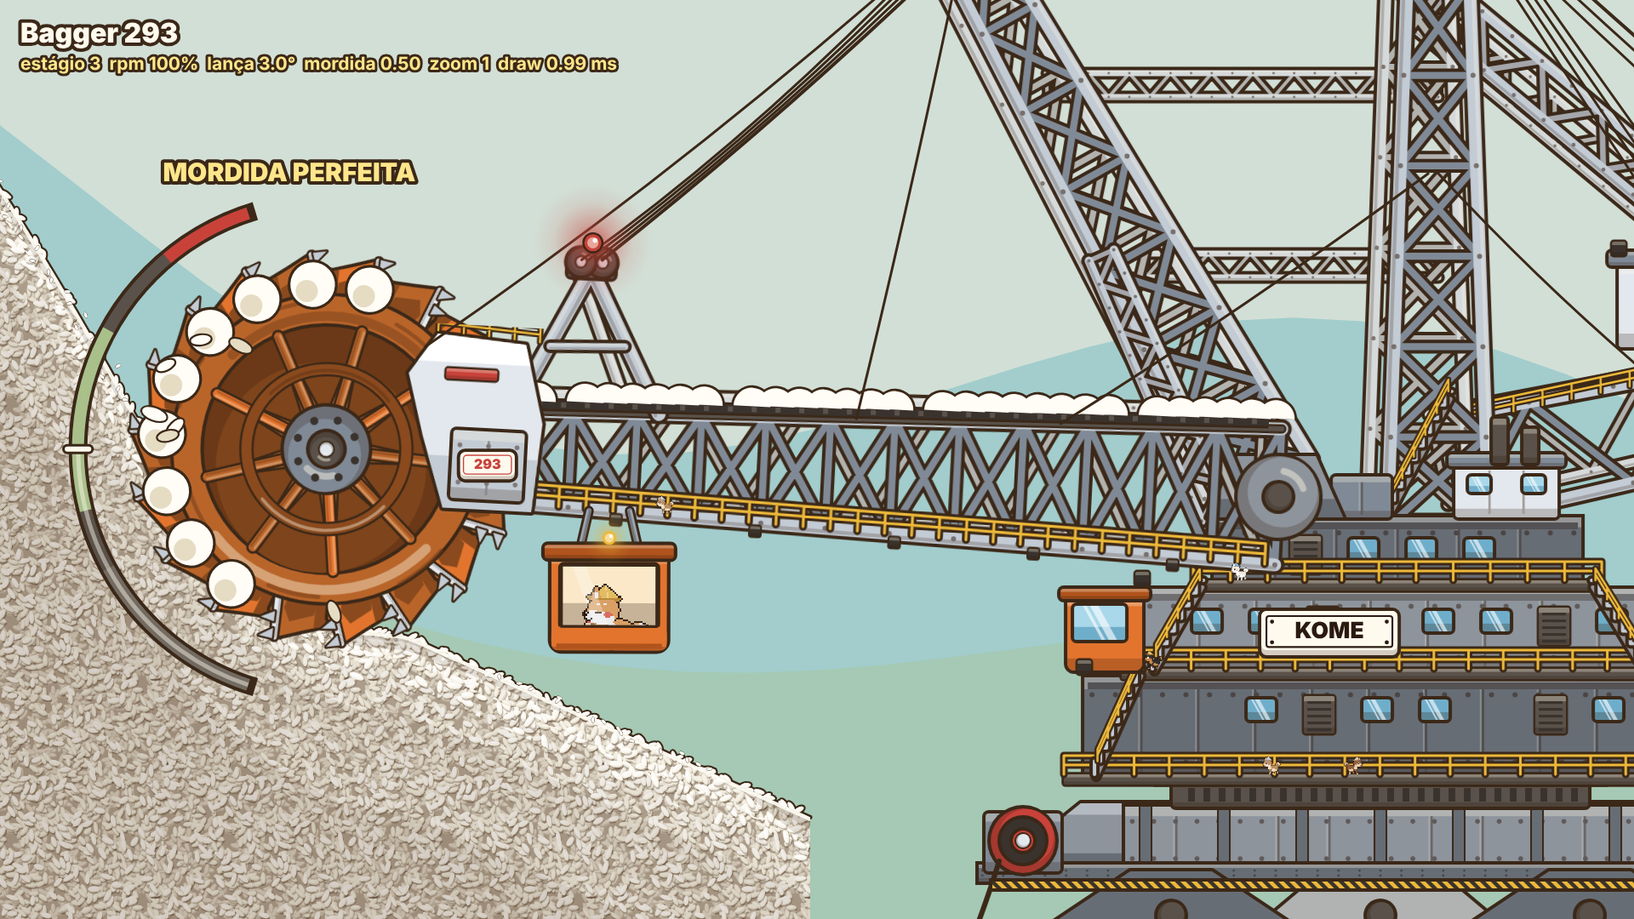
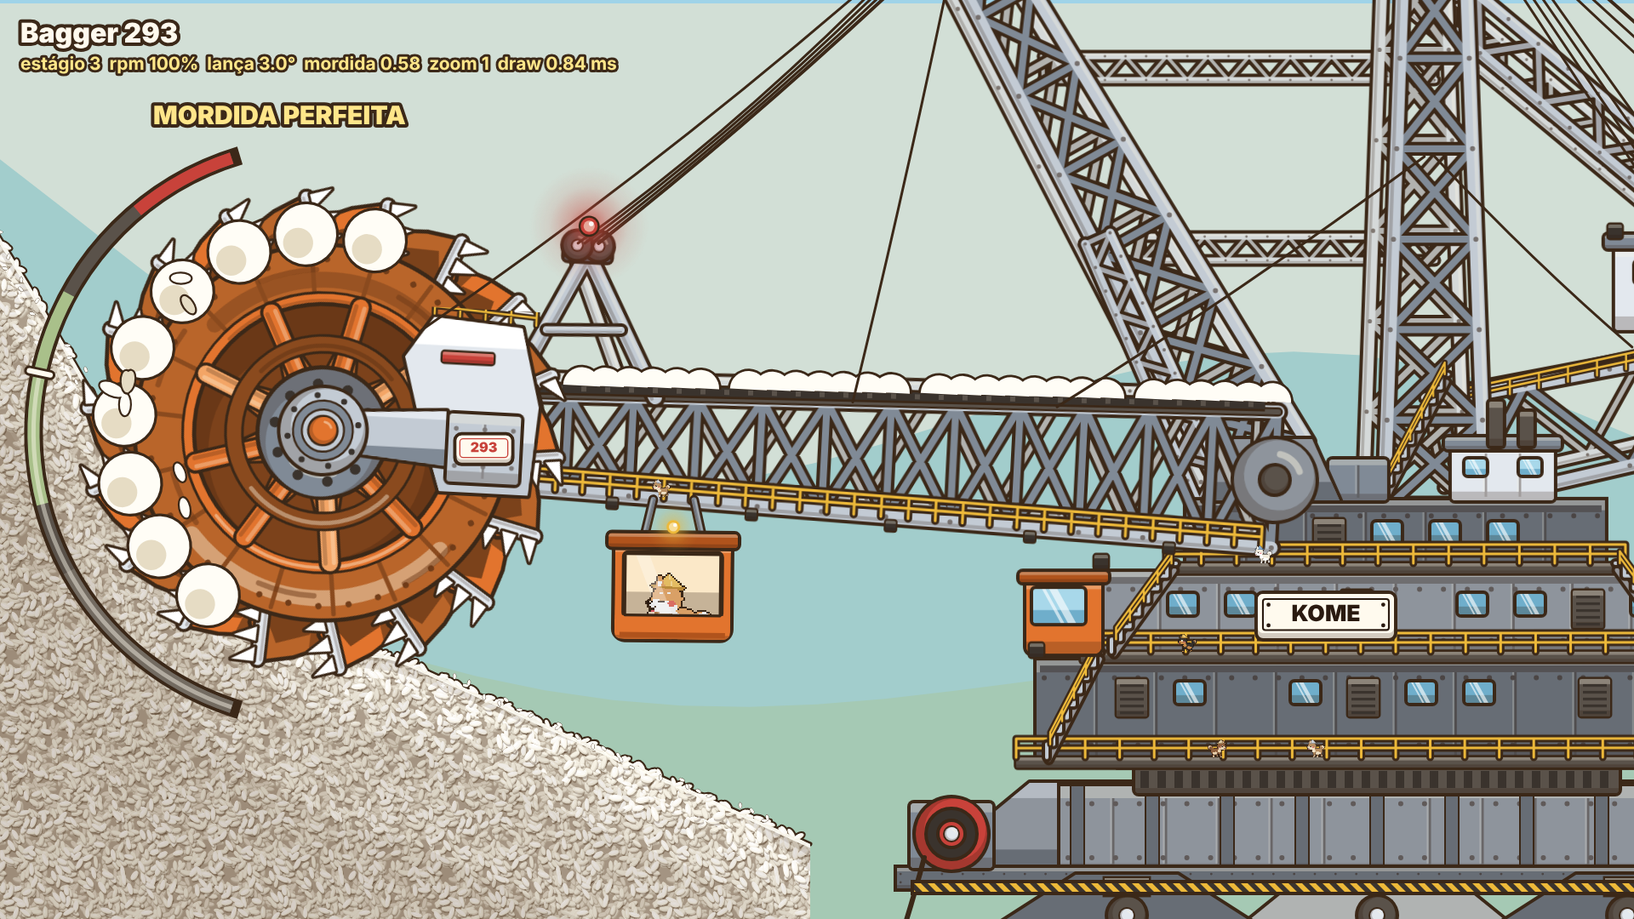
kome: Bagger 293 (primeira versão)
Claude-Session: https://claude.ai/code/session_01QMuA8b6SJ9Cv2sd7LT1RZF

diff --git a/kome/game/bagger.js b/kome/game/bagger.js
@@ -30,20 +30,20 @@
   function sh(c, k) { const key = c + '|' + k; let v = shc.get(key); if (v === undefined) { v = U.shade(c, k); shc.set(key, v); } return v; }
 
   /* ---------------- geometria (modelo: x pra frente, y negativo = pra cima) ---------------- */
-  const TH = 52, TW = 88;                         // esteira principal
-  const RING = -142;                              // topo do anel de giro (tudo acima balança junto)
+  const TH = 66, TW = 108;                         // esteira principal
+  const RING = -142, LIFT = 30;                             // topo do anel de giro (tudo acima balança junto)
   const PX = 60, PY = -310;                       // pino da lança da roda
-  const BL = 560, WR = 110, NB = 18, STEP = TAU / NB;
+  const BL = 560, WR = 134, WS = 1.2, NB = 18, STEP = TAU / NB;
   const LMIN = -18 * DEG, LMAX = 32 * DEG;
   const M1B = [66, -318], M1T = [244, -636];      // mastro inclinado pra frente
   const M2B = [-34, -292], M2T = [-34, -664];     // torre vertical
   const K0 = [-44, -326], K1 = [-340, -388];      // lança do contrapeso
-  const NEAR_TR = [-212, -122, 34, 124], FAR_TR = [-90, 2]; // x das esteiras (2 grupos na frente, 1 atrás)
+  const NEAR_TR = [-256, -146, 38, 148], FAR_TR = [-110, 2]; // x das esteiras (2 grupos na frente, 1 atrás)
   const LD_TR = [-694, -610], LTH = 40;           // esteiras da unidade de carregamento
   const BR_A = [-112, -206], BR_B = [-594, -218]; // ponte de descarga
   const LB_A = [-650, -184], LB_B = [-752, -132]; // lança de descarga da unidade
   const DECKS = [                                 // conveses: x0, x1, topo, base, cor
-    [-194, 174, -204, -142, 'grayD'], [-162, 140, -256, -204, 'gray'], [-118, 98, -298, -256, 'grayD']];
+    [-222, 200, -204, -142, 'grayD'], [-184, 162, -256, -204, 'gray'], [-134, 112, -298, -256, 'grayD']];
   const C_LAT = PAL.steel, C_LATF = sh(PAL.steel, 0.3), C_HOUSE = PAL.steelL, C_RAIL = PAL.yel, C_WEB = PAL.steelD;
   const C_WARM = PAL.goldL, C_RICE = PAL.rice;
   const P2 = [[0, 0], [0, 0]], PA = [0, 0], PB = [0, 0], TMP = { x: 0, y: 0 };
@@ -72,37 +72,39 @@
   }
   function blit(g, s) { g.drawImage(s.cv, s.x, s.y, s.w, s.h); }
 
-  const BOX_UNDER = [-296, -160, 270, 4], BOX_UPPER = [-420, -712, 290, -132], BOX_BOOM = [-36, -132, 572, 62];
-  const BOX_WHEEL = [-124, -124, 124, 124], BOX_GUARD = [430, -76, 566, 40], BOX_BRIDGE = [-776, -366, -84, 4];
-  const BOX_SCAF = [-200, -348, 200, -132], BOX_SCAF2 = [16, -384, 124, -292], BOX_TRK = [-216, -70, 216, 2], BOX_LTRK = [-700, -42, -524, 2];
+  const BOX_UNDER = [-340, -190, 312, 4], BOX_UPPER = [-420, -712, 290, -132], BOX_BOOM = [-36, -132, 572, 62];
+  const BOX_WHEEL = [-152, -152, 152, 152], BOX_GUARD = [430, -76, 596, 40], BOX_BRIDGE = [-776, -366, -84, 4];
+  const BOX_SCAF = [-200, -348, 200, -132], BOX_SCAF2 = [16, -384, 124, -292], BOX_TRK = [-262, -86, 262, 2], BOX_LTRK = [-700, -42, -524, 2];
 
   function yoke(g, cx, half, top, col) {
-    Draw.poly(g, [[cx - half, -TH + 6], [cx + half, -TH + 6], [cx + 24, top], [cx - 24, top]], col, { shade: sh(col, -0.2) });
-    Draw.circle(g, cx, -TH - 12, 8, PAL.blkL, { hi: false });
-    Draw.circle(g, cx - half + 16, -TH + 2, 5, PAL.steelD, { ol: 1.2 }); Draw.circle(g, cx + half - 16, -TH + 2, 5, PAL.steelD, { ol: 1.2 });
+    Draw.poly(g, [[cx - half, -TH + 8], [cx + half, -TH + 8], [cx + 30, top], [cx - 30, top]], col, { shade: sh(col, -0.2) });
+    Draw.circle(g, cx, -TH - 18, 11, PAL.blkL, { hi: false }); Draw.circle(g, cx, -TH - 18, 4, PAL.steelL, { ol: 1 });
+    Draw.circle(g, cx - half + 22, -TH + 2, 7, PAL.steelD, { ol: 1.2 }); Draw.circle(g, cx + half - 22, -TH + 2, 7, PAL.steelD, { ol: 1.2 });
   }
   function drawUnder(g) {
+    const RU = RING - LIFT;
     // grupo de trás (mais claro), colunas, travessa
-    yoke(g, 0, 86, -98, sh(PAL.gray, 0.3));
-    Draw.box(g, -22, -104, 44, 20, sh(PAL.gray, 0.3));
-    // subestrutura: caixão trapezoidal
-    Draw.poly(g, [[-228, -88], [228, -88], [176, -130], [-176, -130]], PAL.gray, { shade: PAL.grayD, hi: PAL.grayL });
-    Draw.box(g, -150, -128, 300, 40, PAL.gray, { panels: 10, rivets: true });
-    for (let i = -3; i <= 3; i++) Draw.box(g, i * 46 - 3, -128, 6, 40, PAL.grayD, { ol: 1, top: false });
-    Draw.box(g, -236, -94, 472, 10, PAL.grayD, { rivets: 12 });
-    yoke(g, -123, 90, -90, PAL.grayD); yoke(g, 123, 90, -90, PAL.grayD);
+    yoke(g, 0, 104, -118, sh(PAL.gray, 0.3));
+    Draw.box(g, -26, -126, 52, 22, sh(PAL.gray, 0.3));
+    // subestrutura: caixão trapezoidal fundo, com nervuras
+    Draw.poly(g, [[-272, -106], [272, -106], [204, RU + 10], [-204, RU + 10]], PAL.gray, { shade: PAL.grayD, hi: PAL.grayL });
+    Draw.box(g, -186, RU + 12, 372, -118 - RU, PAL.gray, { panels: 12, rivets: true });
+    for (let i = -4; i <= 4; i++) Draw.box(g, i * 44 - 3.5, RU + 12, 7, -118 - RU, PAL.grayD, { ol: 1, top: false });
+    Draw.box(g, -282, -112, 564, 12, PAL.grayD, { rivets: 12 });
+    yoke(g, -147, 108, -108, PAL.grayD); yoke(g, 147, 108, -108, PAL.grayD);
+    Draw.box(g, -160, -106, 26, 10, PAL.blkL, { ol: 1.2 }); Draw.box(g, 134, -106, 26, 10, PAL.blkL, { ol: 1.2 });
     // anel de giro (engrenagem escura com graxa)
-    Draw.box(g, -122, RING - 2, 244, 16, PAL.blkL, { r: 2 });
-    g.fillStyle = PAL.blk; for (let x = -116; x < 118; x += 9) g.fillRect(x, RING + 3, 4, 8);
-    Draw.box(g, -132, RING - 4, 264, 5, PAL.steelD, { ol: 1.4 });
+    Draw.box(g, -142, RU - 2, 284, 18, PAL.blkL, { r: 2 });
+    g.fillStyle = PAL.blk; for (let x = -136; x < 138; x += 10) g.fillRect(x, RU + 3, 5, 10);
+    Draw.box(g, -152, RU - 4, 304, 5, PAL.steelD, { ol: 1.4 });
     // escada de acesso do chão, com patamar
-    Draw.stairs(g, [-290, 0], [-238, -88], 12, { railCol: C_RAIL, lw: 2.2 });
-    Draw.stairs(g, [-234, -94], [-196, RING], 8, { railCol: C_RAIL, lw: 2 });
+    Draw.stairs(g, [-336, 0], [-284, -106], 14, { railCol: C_RAIL, lw: 2.2 });
+    Draw.stairs(g, [-280, -112], [-222, RU], 9, { railCol: C_RAIL, lw: 2 });
     // carretel do cabo de força (a máquina liga na tomada)
-    Draw.box(g, 188, -124, 44, 34, PAL.steelD, { r: 2 });
-    Draw.circle(g, 210, -108, 19, PAL.red); Draw.ring(g, 210, -108, 13, 5, PAL.blk, { hi: false }); Draw.circle(g, 210, -108, 4, PAL.steelL, { ol: 1 });
-    Draw.cable(g, [224, -96], [266, -1], { sag: 10, lw: 3 });
-    Draw.hazard(g, -228, -84, 456, 4);
+    Draw.box(g, 226, -150, 48, 38, PAL.steelD, { r: 2 });
+    Draw.circle(g, 250, -132, 21, PAL.red); Draw.ring(g, 250, -132, 14, 5, PAL.blk, { hi: false }); Draw.circle(g, 250, -132, 4, PAL.steelL, { ol: 1 });
+    Draw.cable(g, [266, -118], [308, -1], { sag: 10, lw: 3 });
+    Draw.hazard(g, -272, -103, 544, 5);
   }
 
   function deckWindows(fn) {
@@ -168,22 +170,22 @@
       Draw.box(g, D[0] - 12, D[3] - 5, D[1] - D[0] + 24, 6, PAL.blkL, { ol: 1.4, r: 1 });   // passarela
       Draw.rail(g, [D[0] - 12, D[3] - 5], [D[1] + 12, D[3] - 5], { posts: Math.round((D[1] - D[0]) / 18), h: 11, col: C_RAIL, lw: 1.5 });
     }
-    Draw.stairs(g, [168, -147], [140, -209], 8, { railCol: C_RAIL, lw: 2 });
-    Draw.stairs(g, [-188, -147], [-162, -209], 8, { railCol: C_RAIL, lw: 2 });
-    Draw.stairs(g, [134, -209], [104, -261], 7, { railCol: C_RAIL, lw: 2 });
-    Draw.stairs(g, [-156, -209], [-124, -261], 7, { railCol: C_RAIL, lw: 2 });
+    Draw.stairs(g, [194, -147], [162, -209], 8, { railCol: C_RAIL, lw: 2 });
+    Draw.stairs(g, [-216, -147], [-184, -209], 8, { railCol: C_RAIL, lw: 2 });
+    Draw.stairs(g, [156, -209], [118, -261], 7, { railCol: C_RAIL, lw: 2 });
+    Draw.stairs(g, [-178, -209], [-140, -261], 7, { railCol: C_RAIL, lw: 2 });
     // casas elétricas, dutos e chaminés no teto
     Draw.box(g, -104, -330, 60, 32, C_HOUSE, { r: 2, panels: 3 }); Draw.box(g, -108, -335, 68, 7, PAL.steelD, { r: 2 });
     Draw.box(g, -6, -322, 34, 24, PAL.steelD, { r: 2, panels: 2 });
     Draw.box(g, -92, -350, 8, 20, PAL.blkL, { r: 1 }); Draw.box(g, -74, -356, 8, 26, PAL.blkL, { r: 1 });
     Draw.window(g, -96, -322, 12, 9); Draw.window(g, -64, -322, 12, 9);
     // cabine secundária laranja no canto da frente
-    Draw.box(g, 140, -252, 44, 44, PAL.ora, { r: 4 }); Draw.window(g, 150, -246, 30, 20); Draw.box(g, 136, -256, 52, 6, PAL.oraD, { r: 2 });
+    Draw.box(g, 162, -252, 44, 44, PAL.ora, { r: 4 }); Draw.window(g, 172, -246, 30, 20); Draw.box(g, 158, -256, 52, 6, PAL.oraD, { r: 2 });
     // pórtico do pino da lança
     Draw.poly(g, [[22, -298], [102, -298], [84, -334], [38, -334]], PAL.gray, { shade: PAL.grayD });
     Draw.circle(g, PX, PY, 15, PAL.steelD); Draw.circle(g, PX, PY, 6, PAL.blk, { hi: false });
     // caixas de holofote
-    const L = [[174, -210], [-194, -210], [140, -262], [-162, -262], [-140, -456]];
+    const L = [[200, -210], [-222, -210], [162, -262], [-184, -262], [-140, -456]];
     for (const p of L) Draw.box(g, p[0] - 4, p[1] - 4, 8, 8, PAL.blk, { ol: 1.2, r: 1 });
   }
 
@@ -208,32 +210,43 @@
     Draw.box(g, 444, -14, 42, 40, PAL.steel, { r: 2, rivets: true, panels: 2 });
     Draw.rail(g, [438, -68], [498, -72], { posts: 5, h: 9, col: C_RAIL });
     Draw.box(g, 462, -50, 30, 6, PAL.red, { ol: 1.2, r: 1 });
+    Draw.poly(g, [[488, -15], [556, -11], [556, 11], [488, 17]], PAL.steel, { shade: PAL.steelD, hi: PAL.steelL });
+    Draw.circle(g, BL, 0, 25, PAL.steel); Draw.ring(g, BL, 0, 17, 4, PAL.steelD, { ol: 1.2, hi: false });
+    g.fillStyle = PAL.blk; for (let i = 0; i < 8; i++) { const a = i * TAU / 8 + 0.2; g.beginPath(); g.arc(BL + Math.cos(a) * 21, Math.sin(a) * 21, 1.8, 0, TAU); g.fill(); }
+    Draw.circle(g, BL, 0, 8, PAL.ora, { ol: 1.3 });
   }
 
   function drawWheel(g) {
-    // 18 caçambas: boca aberta pro lado da rotação (-y local), lábio de aço com dentes
+    g.save(); g.scale(WS, WS);
+    // 18 caçambas fundas: boca aberta pro lado da rotação (-y local), lábio de aço claro com dentes grandes
     for (let i = 0; i < NB; i++) {
       g.save(); g.rotate(i * STEP);
-      Draw.poly(g, [[80, 12], [82, -17], [97, -22], [113, -17], [108, -3], [104, 9], [94, 16]], i % 2 ? PAL.ora : PAL.rust, { shade: PAL.rustD });
-      Draw.poly(g, [[84, -10], [95, -14], [103, -10], [98, 4], [86, 6]], PAL.rustD, { ol: 0 });
-      Draw.beam(g, ln(84, -18, 113, -18), 3.6, PAL.steelL, { ol: 1.4 });
-      Draw.poly(g, [[98, -19], [104, -19], [102, -27]], PAL.steel, { ol: 1.2 }); Draw.poly(g, [[108, -19], [114, -19], [113, -27]], PAL.steel, { ol: 1.2 });
+      Draw.poly(g, [[76, 14], [78, -18], [96, -24], [114, -18], [110, -2], [104, 11], [92, 18]], i % 2 ? PAL.ora : PAL.rust, { shade: PAL.rustD });
+      Draw.poly(g, [[82, -11], [95, -16], [105, -11], [99, 5], [84, 8]], sh(PAL.rustD, -0.15), { ol: 0 });
+      Draw.beam(g, ln(80, -19, 114, -19), 5.5, PAL.steelL, { ol: 1.5 });
+      Draw.poly(g, [[88, -21], [95, -21], [92, -31]], PAL.white, { ol: 1.3 });
+      Draw.poly(g, [[98, -21], [105, -21], [103, -32]], PAL.white, { ol: 1.3 }); Draw.poly(g, [[108, -21], [115, -21], [115, -32]], PAL.white, { ol: 1.3 });
       g.restore();
     }
-    Draw.ring(g, 0, 0, 90, 19, PAL.rust);
-    Draw.circle(g, 0, 0, 72, sh(PAL.rustD, -0.12), { hi: false });
-    for (let i = 0; i < 9; i++) {                                                         // raios em chapa
-      const a = i * TAU / 9 + 0.17, c = Math.cos(a), s = Math.sin(a), c2 = Math.cos(a + 0.2), s2 = Math.sin(a + 0.2), c3 = Math.cos(a - 0.2), s3 = Math.sin(a - 0.2);
-      Draw.poly(g, [[c2 * 24, s2 * 24], [c * 73, s * 73 - 0], [c3 * 24, s3 * 24]], PAL.rust, { ol: 1.4 });
-      Draw.beam(g, ln(c * 22, s * 22, c * 72, s * 72), 5, i % 3 ? PAL.rust : PAL.ora, { ol: 1.4 });
+    // aro grosso enferrujado, com chapas rebitadas
+    Draw.ring(g, 0, 0, 91, 26, PAL.rust);
+    g.strokeStyle = PAL.rustD; g.lineWidth = 2.2;
+    for (let i = 0; i < NB; i++) { const a = (i + 0.5) * STEP, c = Math.cos(a), q = Math.sin(a); g.beginPath(); g.moveTo(c * 67, q * 67); g.lineTo(c * 89, q * 89); g.stroke(); }
+    g.fillStyle = sh(PAL.rustD, -0.25); for (let i = 0; i < NB * 2; i++) { const a = i * STEP / 2 + 0.09; g.beginPath(); g.arc(Math.cos(a) * 85, Math.sin(a) * 85, 1.5, 0, TAU); g.fill(); }
+    Draw.ring(g, 0, 0, 68, 5, PAL.ora, { ol: 1.3 });
+    Draw.circle(g, 0, 0, 62, sh(PAL.rustD, -0.14), { hi: false });
+    for (let i = 0; i < 9; i++) {                                                         // raios em chapa, bem marcados
+      const a = i * TAU / 9 + 0.17, c = Math.cos(a), q = Math.sin(a), c2 = Math.cos(a + 0.24), s2 = Math.sin(a + 0.24), c3 = Math.cos(a - 0.24), s3 = Math.sin(a - 0.24);
+      Draw.poly(g, [[c2 * 30, s2 * 30], [c * 64, q * 64], [c3 * 30, s3 * 30]], PAL.rust, { ol: 1.4 });
+      Draw.beam(g, ln(c * 26, q * 26, c * 64, q * 64), 8, i % 3 ? PAL.ora : PAL.oraL, { ol: 1.5 });
     }
-    Draw.ring(g, 0, 0, 50, 6, PAL.rustD, { ol: 1.2 });
-    g.strokeStyle = sh(PAL.rustD, -0.3); g.lineWidth = 2.4; g.globalAlpha = 0.5;
-    for (let i = 0; i < 7; i++) { const a = i * 0.9 + 0.3; g.beginPath(); g.arc(0, 0, 84 + (i % 3) * 3, a, a + 0.35); g.stroke(); }
+    Draw.ring(g, 0, 0, 47, 7, PAL.rustD, { ol: 1.3 });
+    g.strokeStyle = sh(PAL.rustD, -0.3); g.lineWidth = 2.6; g.globalAlpha = 0.5;
+    for (let i = 0; i < 7; i++) { const a = i * 0.9 + 0.3; g.beginPath(); g.arc(0, 0, 76 + (i % 3) * 4, a, a + 0.35); g.stroke(); }
     g.globalAlpha = 1;
-    Draw.circle(g, 0, 0, 25, PAL.steelD);
-    g.fillStyle = PAL.blk; for (let i = 0; i < 8; i++) { const a = i * TAU / 8; g.beginPath(); g.arc(Math.cos(a) * 18, Math.sin(a) * 18, 2.4, 0, TAU); g.fill(); }
-    Draw.circle(g, 0, 0, 10, PAL.blkL); Draw.circle(g, 0, 0, 4, PAL.steelL, { ol: 1 });
+    Draw.circle(g, 0, 0, 31, PAL.steelD);                                                 // cubo grande
+    g.fillStyle = PAL.blk; for (let i = 0; i < 10; i++) { const a = i * TAU / 10; g.beginPath(); g.arc(Math.cos(a) * 24, Math.sin(a) * 24, 2.6, 0, TAU); g.fill(); }
+    g.restore();
   }
 
   function drawBridge(g) {
@@ -282,7 +295,7 @@
   function trackSprite(rs, i) {
     return sprite('trk' + i, rs, BOX_TRK, g => {
       const ph = i / TRK_N * PITCH;
-      for (const x of FAR_TR) Draw.track(g, x + 2, -TH - 13, TW, TH, ph, { col: sh(PAL.grayD, 0.25), belt: PAL.blkL });
+      for (const x of FAR_TR) Draw.track(g, x + 2, -TH - 15, TW, TH, ph, { col: sh(PAL.grayD, 0.25), belt: PAL.blkL });
       for (const x of NEAR_TR) Draw.track(g, x, -TH, TW, TH, ph, { col: PAL.yelD });
     });
   }
@@ -330,9 +343,9 @@
 
   /* ---------------- estado ---------------- */
   const WALK = [  // shibas nas passarelas: quadro ('b' corpo, 'o' lança, 'r' ponte), x0, x1, y, velocidade, fase, paleta
-    ['b', -198, 178, -147, 15, 0, 'goma'], ['b', -166, 144, -209, 12, 90, 'kuro'], ['b', -122, 100, -261, 10, 30, 'shiro'],
-    ['b', -190, 170, -147, 18, 200, 'cha'], ['o', 20, 450, 0, 16, 60, 'goma'], ['r', -560, -130, 0, 14, 10, 'kuro'],
-    ['b', -360, -250, -402, 8, 5, 'aka'], ['u', -200, 200, -92, 13, 44, 'shiro']];
+    ['b', -226, 204, -147, 15, 0, 'goma'], ['b', -188, 166, -209, 12, 90, 'kuro'], ['b', -138, 114, -261, 10, 30, 'shiro'],
+    ['b', -216, 196, -147, 18, 200, 'cha'], ['o', 20, 450, 0, 16, 60, 'goma'], ['r', -560, -130, 0, 14, 10, 'kuro'],
+    ['b', -360, -250, -402, 8, 5, 'aka'], ['u', -270, 270, -112, 13, 44, 'shiro']];
   const GRAIN = { shape: 'grain', c: [PAL.rice, PAL.rice, PAL.riceS], land: true, w: [5, 8], life: 1.6, ol: true, speed: [30, 120], spread: 0.6, dir: PI / 2 };
   const shO = { scale: 0.27, shadow: false, pal: 'goma', face: 1 }, komeO = { scale: 1.05, shadow: false, pal: 'kome', face: 1 };
 
@@ -357,7 +370,7 @@
   // modelo (parte de cima, com o balanço) -> mundo
   function toWorld(m, x, y, out) {
     const c = Math.cos(m.sway), s = Math.sin(m.sway), dy = y - RING;
-    out.x = m.x + m.face * (x * c - dy * s); out.y = m.y + RING + x * s + dy * c; return out;
+    out.x = m.x + m.face * (x * c - dy * s); out.y = m.y + RING - LIFT + x * s + dy * c; return out;
   }
   function wheelWorld(m, out) { boomPt(m, BL, 0, out); return toWorld(m, out.x + m.wobX, out.y + m.wobY, out); }
 
@@ -370,7 +383,7 @@
     m.y = inp.y || 0;
     const st = m.stage, face = m.face, full = st >= 3;
     // lança: mola pesada até o ângulo pedido
-    if (full && inp.ty !== undefined && inp.ty !== null) m.luffS.target = clamp(Math.asin(clamp((m.y + PY - inp.ty) / BL, -1, 1)), LMIN, LMAX);
+    if (full && inp.ty !== undefined && inp.ty !== null) m.luffS.target = clamp(Math.asin(clamp((m.y + PY - LIFT - inp.ty) / BL, -1, 1)), LMIN, LMAX);
     const pl = m.luff; m.luffS.update(dt);
     if (m.luffS.x < LMIN) { m.luffS.x = LMIN; if (m.luffS.v < 0) m.luffS.v = 0; }
     if (m.luffS.x > LMAX) { m.luffS.x = LMAX; if (m.luffS.v > 0) m.luffS.v = 0; }
@@ -421,7 +434,7 @@
       if (parts && m.spill >= 1) {
         const n = Math.floor(m.spill); m.spill -= n;
         wheelWorld(m, TMP);
-        const a = spillAt > -9 ? spillAt : 0.6, wx = TMP.x + face * Math.cos(a) * 104, wy = TMP.y + Math.sin(a) * 104;
+        const a = spillAt > -9 ? spillAt : 0.6, wx = TMP.x + face * Math.cos(a) * 126, wy = TMP.y + Math.sin(a) * 126;
         GRAIN.dir = PI / 2 - face * 0.5; GRAIN.speed[0] = 30; GRAIN.speed[1] = 150; GRAIN.spread = 0.9;
         parts.spray(wx, wy, n, GRAIN);
       }
@@ -445,7 +458,7 @@
     o.active = m.stage >= 3 && m.digIn && m.rpm > 0.25; o.phase = m.ph; return o;
   }
   function dump(m) { const o = m.dumpO; o.x = m.x + m.face * (LB_B[0] - 8); o.y = m.y + LB_B[1] + 6; o.active = m.flow > 0.03; return o; }
-  function cabinPt(m, out) { boomPt(m, 392, botChord(392) + 2, out); return out; }
+  function cabinPt(m, out) { boomPt(m, 352, botChord(352) + 2, out); return out; }
   function seat(m) {
     const o = m.seatO; cabinPt(m, TMP);
     toWorld(m, TMP.x - Math.sin(m.cabS.x) * 52, TMP.y + Math.cos(m.cabS.x) * 52, o); return o;
@@ -495,10 +508,10 @@
     // 2) esteiras + subestrutura
     blit(g, trackSprite(rs, fi));
     blit(g, sprite('under', rs, BOX_UNDER, drawUnder));
-    if (st === 1) blit(g, sprite('scaf', rs, BOX_SCAF, drawScaf));
+    if (st === 1) { g.translate(0, -LIFT); blit(g, sprite('scaf', rs, BOX_SCAF, drawScaf)); g.translate(0, LIFT); }
 
     // 3) parte de cima (balança inteira em volta do anel)
-    g.save(); g.translate(0, RING); g.rotate(m.sway); g.translate(0, -RING);
+    g.save(); g.translate(0, RING - LIFT); g.rotate(m.sway); g.translate(0, -RING);
     if (st >= 2) {
       blit(g, sprite('upper', rs, BOX_UPPER, drawUpper));
       // estais de trás: torre -> contrapeso / guincho; topo -> topo
@@ -524,13 +537,13 @@
       // arroz nas caçambas (sobe pela frente)
       const B = m.buckets; let any = false;
       g.fillStyle = LINE; g.beginPath();
-      for (let i = 0; i < NB; i++) { const v = B[i]; if (v < 0.05) continue; any = true; const a = m.rot + i * STEP - 0.15, r = 4 + 7 * Math.min(1.3, v), x = Math.cos(a) * 97, y = Math.sin(a) * 97; g.moveTo(x + r + 1.6, y); g.arc(x, y, r + 1.6, 0, TAU); }
+      for (let i = 0; i < NB; i++) { const v = B[i]; if (v < 0.05) continue; any = true; const a = m.rot + i * STEP - 0.15, r = 6 + 9 * Math.min(1.3, v), x = Math.cos(a) * 117, y = Math.sin(a) * 117; g.moveTo(x + r + 1.6, y); g.arc(x, y, r + 1.6, 0, TAU); }
       if (any) {
         g.fill(); g.fillStyle = C_RICE; g.beginPath();
-        for (let i = 0; i < NB; i++) { const v = B[i]; if (v < 0.05) continue; const a = m.rot + i * STEP - 0.15, r = 4 + 7 * Math.min(1.3, v), x = Math.cos(a) * 97, y = Math.sin(a) * 97; g.moveTo(x + r, y); g.arc(x, y, r, 0, TAU); }
+        for (let i = 0; i < NB; i++) { const v = B[i]; if (v < 0.05) continue; const a = m.rot + i * STEP - 0.15, r = 6 + 9 * Math.min(1.3, v), x = Math.cos(a) * 117, y = Math.sin(a) * 117; g.moveTo(x + r, y); g.arc(x, y, r, 0, TAU); }
         g.fill();
         g.fillStyle = PAL.riceS; g.beginPath();
-        for (let i = 0; i < NB; i++) { const v = B[i]; if (v < 0.05) continue; const a = m.rot + i * STEP - 0.15, r = 4 + 7 * Math.min(1.3, v), x = Math.cos(a) * 97 + r * 0.25, y = Math.sin(a) * 97 + r * 0.3; g.moveTo(x + r * 0.5, y); g.arc(x, y, r * 0.5, 0, TAU); }
+        for (let i = 0; i < NB; i++) { const v = B[i]; if (v < 0.05) continue; const a = m.rot + i * STEP - 0.15, r = 6 + 9 * Math.min(1.3, v), x = Math.cos(a) * 117 + r * 0.25, y = Math.sin(a) * 117 + r * 0.3; g.moveTo(x + r * 0.5, y); g.arc(x, y, r * 0.5, 0, TAU); }
         g.fill();
       }
       g.restore();
@@ -566,13 +579,13 @@
       let x = walker(m, w, t), y = w[3];
       if (k === 'o') { boomPt(m, x, botChord(x) - 1, TMP); x = TMP.x; y = TMP.y; }
       else if (k === 'r') { y = BR_A[1] + 23 + (x - BR_A[0]) * (BR_B[1] - BR_A[1] - 3.5) / (BR_B[0] - BR_A[0]); }
-      if (k === 'r' || k === 'u') { g.restore(); E.drawShiba(g, x, y, 'walk', t + i, shO); g.save(); g.translate(0, RING); g.rotate(m.sway); g.translate(0, -RING); }
+      if (k === 'r' || k === 'u') { g.restore(); E.drawShiba(g, x, y, 'walk', t + i, shO); g.save(); g.translate(0, RING - LIFT); g.rotate(m.sway); g.translate(0, -RING); }
       else E.drawShiba(g, x, y, 'walk', t + i, shO);
     }
     // 5) placas (nunca espelhadas)
     if (st >= 2) { signAt(g, m, -306, -366, 112, 40, 'KOME-293', SIGN_O); signAt(g, m, 30, -230, 80, 26, 'KOME', SIGN_O); }
     g.restore();
-    if (st === 1) signAt(g, m, 0, -250, 120, 34, 'EM MONTAGEM', SIGN_O);
+    if (st === 1) signAt(g, m, 0, -250 - LIFT, 120, 34, 'EM MONTAGEM', SIGN_O);
     g.restore();
     if (!m.deferGlow) glowIn(g, m);
     if (st >= 3 && m.bite01 !== null && m.bite01 !== undefined && m.rpm > 0.04) gauge(g, m);
@@ -580,7 +593,7 @@
   }
 
   /* ---------------- luzes ---------------- */
-  const FLOOD = [[174, -212, 7], [-194, -212, 7], [140, -264, 6], [-162, -264, 6], [-140, -458, 6], [-34, -500, 6], [-610, -300, 6], [-560, -182, 6], [-250, -410, 6]];
+  const FLOOD = [[200, -212, 7], [-222, -212, 7], [162, -264, 6], [-184, -264, 6], [-140, -458, 6], [-34, -500, 6], [-610, -300, 6], [-560, -182, 6], [-250, -410, 6]];
   const BEACON = [[M2T[0], M2T[1] - 38, 0], [M1T[0], M1T[1] - 22, 0.5], [-610, -362, 0.25], [-352, -500, 0.75]];
   const LT = { halo: 5.5, ol: 1.2 }, LTB = { halo: 7, ol: 1.2 }, LTS = { halo: 4, ol: 0 };
   function glow(g, m) { const z0 = Draw.zoom, m0 = Draw.minPx; Draw.lod(m.zoom, Math.max(m0, 0.62)); glowIn(g, m); Draw.lod(z0, m0); }
@@ -590,12 +603,12 @@
     if (st >= 3 && n > 0.05) for (let i = 6; i < 8; i++) Draw.light(g, FLOOD[i][0], FLOOD[i][1], FLOOD[i][2], C_WARM, n, LT);
     if (st >= 3) { const k = (t * 0.9 + BEACON[2][2]) % 1; Draw.light(g, BEACON[2][0], BEACON[2][1], 5, PAL.red, k < 0.5 ? 1 : 0, LTB); }
     if (st >= 3 && n > 0.05) for (let x = BR_A[0] - 40; x > BR_B[0]; x -= 88) Draw.light(g, x, BR_A[1] + 26, 3.5, C_WARM, n, LTS);
-    g.translate(0, RING); g.rotate(m.sway); g.translate(0, -RING);
+    g.translate(0, RING - LIFT); g.rotate(m.sway); g.translate(0, -RING);
     if (st >= 2) {
       if (n > 0.05) {
         g.globalAlpha = n; g.fillStyle = C_WARM;
         deckWindows((x, y, w, h, d, i) => { if ((i + d) % 4 !== 2 && (i * 5 + d) % 3 !== 0) g.fillRect(x + 1, y + 1, w - 2, h - 2); });
-        g.fillRect(151, -245, 28, 18); g.fillRect(-225, -437, 14, 10); g.fillRect(-167, -437, 14, 10);
+        g.fillRect(173, -245, 28, 18); g.fillRect(-225, -437, 14, 10); g.fillRect(-167, -437, 14, 10);
         g.globalAlpha = 1;
         for (let i = 0; i < 6; i++) Draw.light(g, FLOOD[i][0], FLOOD[i][1], FLOOD[i][2], C_WARM, n, LT);
         Draw.light(g, FLOOD[8][0], FLOOD[8][1], FLOOD[8][2], C_WARM, n, LT);
@@ -606,7 +619,7 @@
       if (n > 0.05) {
         // holofote da cabeça da lança iluminando o corte + fio de luzes da correia
         boomPt(m, 470, -70, TMP); const lx = TMP.x, ly = TMP.y; boomPt(m, BL + 30, 0, TMP);
-        g.globalAlpha = 0.16 * n; g.fillStyle = C_WARM; g.beginPath(); g.moveTo(lx, ly); g.lineTo(TMP.x + 110, TMP.y - 130); g.lineTo(TMP.x + 110, TMP.y + 150); g.closePath(); g.fill(); g.globalAlpha = 1;
+        g.globalAlpha = 0.16 * n; g.fillStyle = C_WARM; g.beginPath(); g.moveTo(lx, ly); g.lineTo(TMP.x + 130, TMP.y - 150); g.lineTo(TMP.x + 130, TMP.y + 170); g.closePath(); g.fill(); g.globalAlpha = 1;
         Draw.light(g, lx, ly, 8, C_WARM, n, LTB);
         for (let x = 60; x < 470; x += 82) { boomPt(m, x, botChord(x) + 6, TMP); Draw.light(g, TMP.x, TMP.y, 4, C_WARM, n, LTS); }
         cabinPt(m, TMP);
@@ -648,7 +661,7 @@
 
   G.Tools.bagger = {
     id: 'bagger', name: 'Bagger 293', kind: 'bagger', w: 1500, h: 700,
-    meta: { zoom: 0.26, shake: 1, cycle: 1 / (0.33 * NB), boom: BL, wheelR: WR, pivot: [PX, PY], luffMin: LMIN, luffMax: LMAX, maxCrawl: 40 },
+    meta: { zoom: 0.26, shake: 1, cycle: 1 / (0.33 * NB), boom: BL, wheelR: WR, pivot: [PX, PY - LIFT], luffMin: LMIN, luffMax: LMAX, maxCrawl: 40 },
     create, update, draw, glow, bite, dump, seat,
   };
 })();
